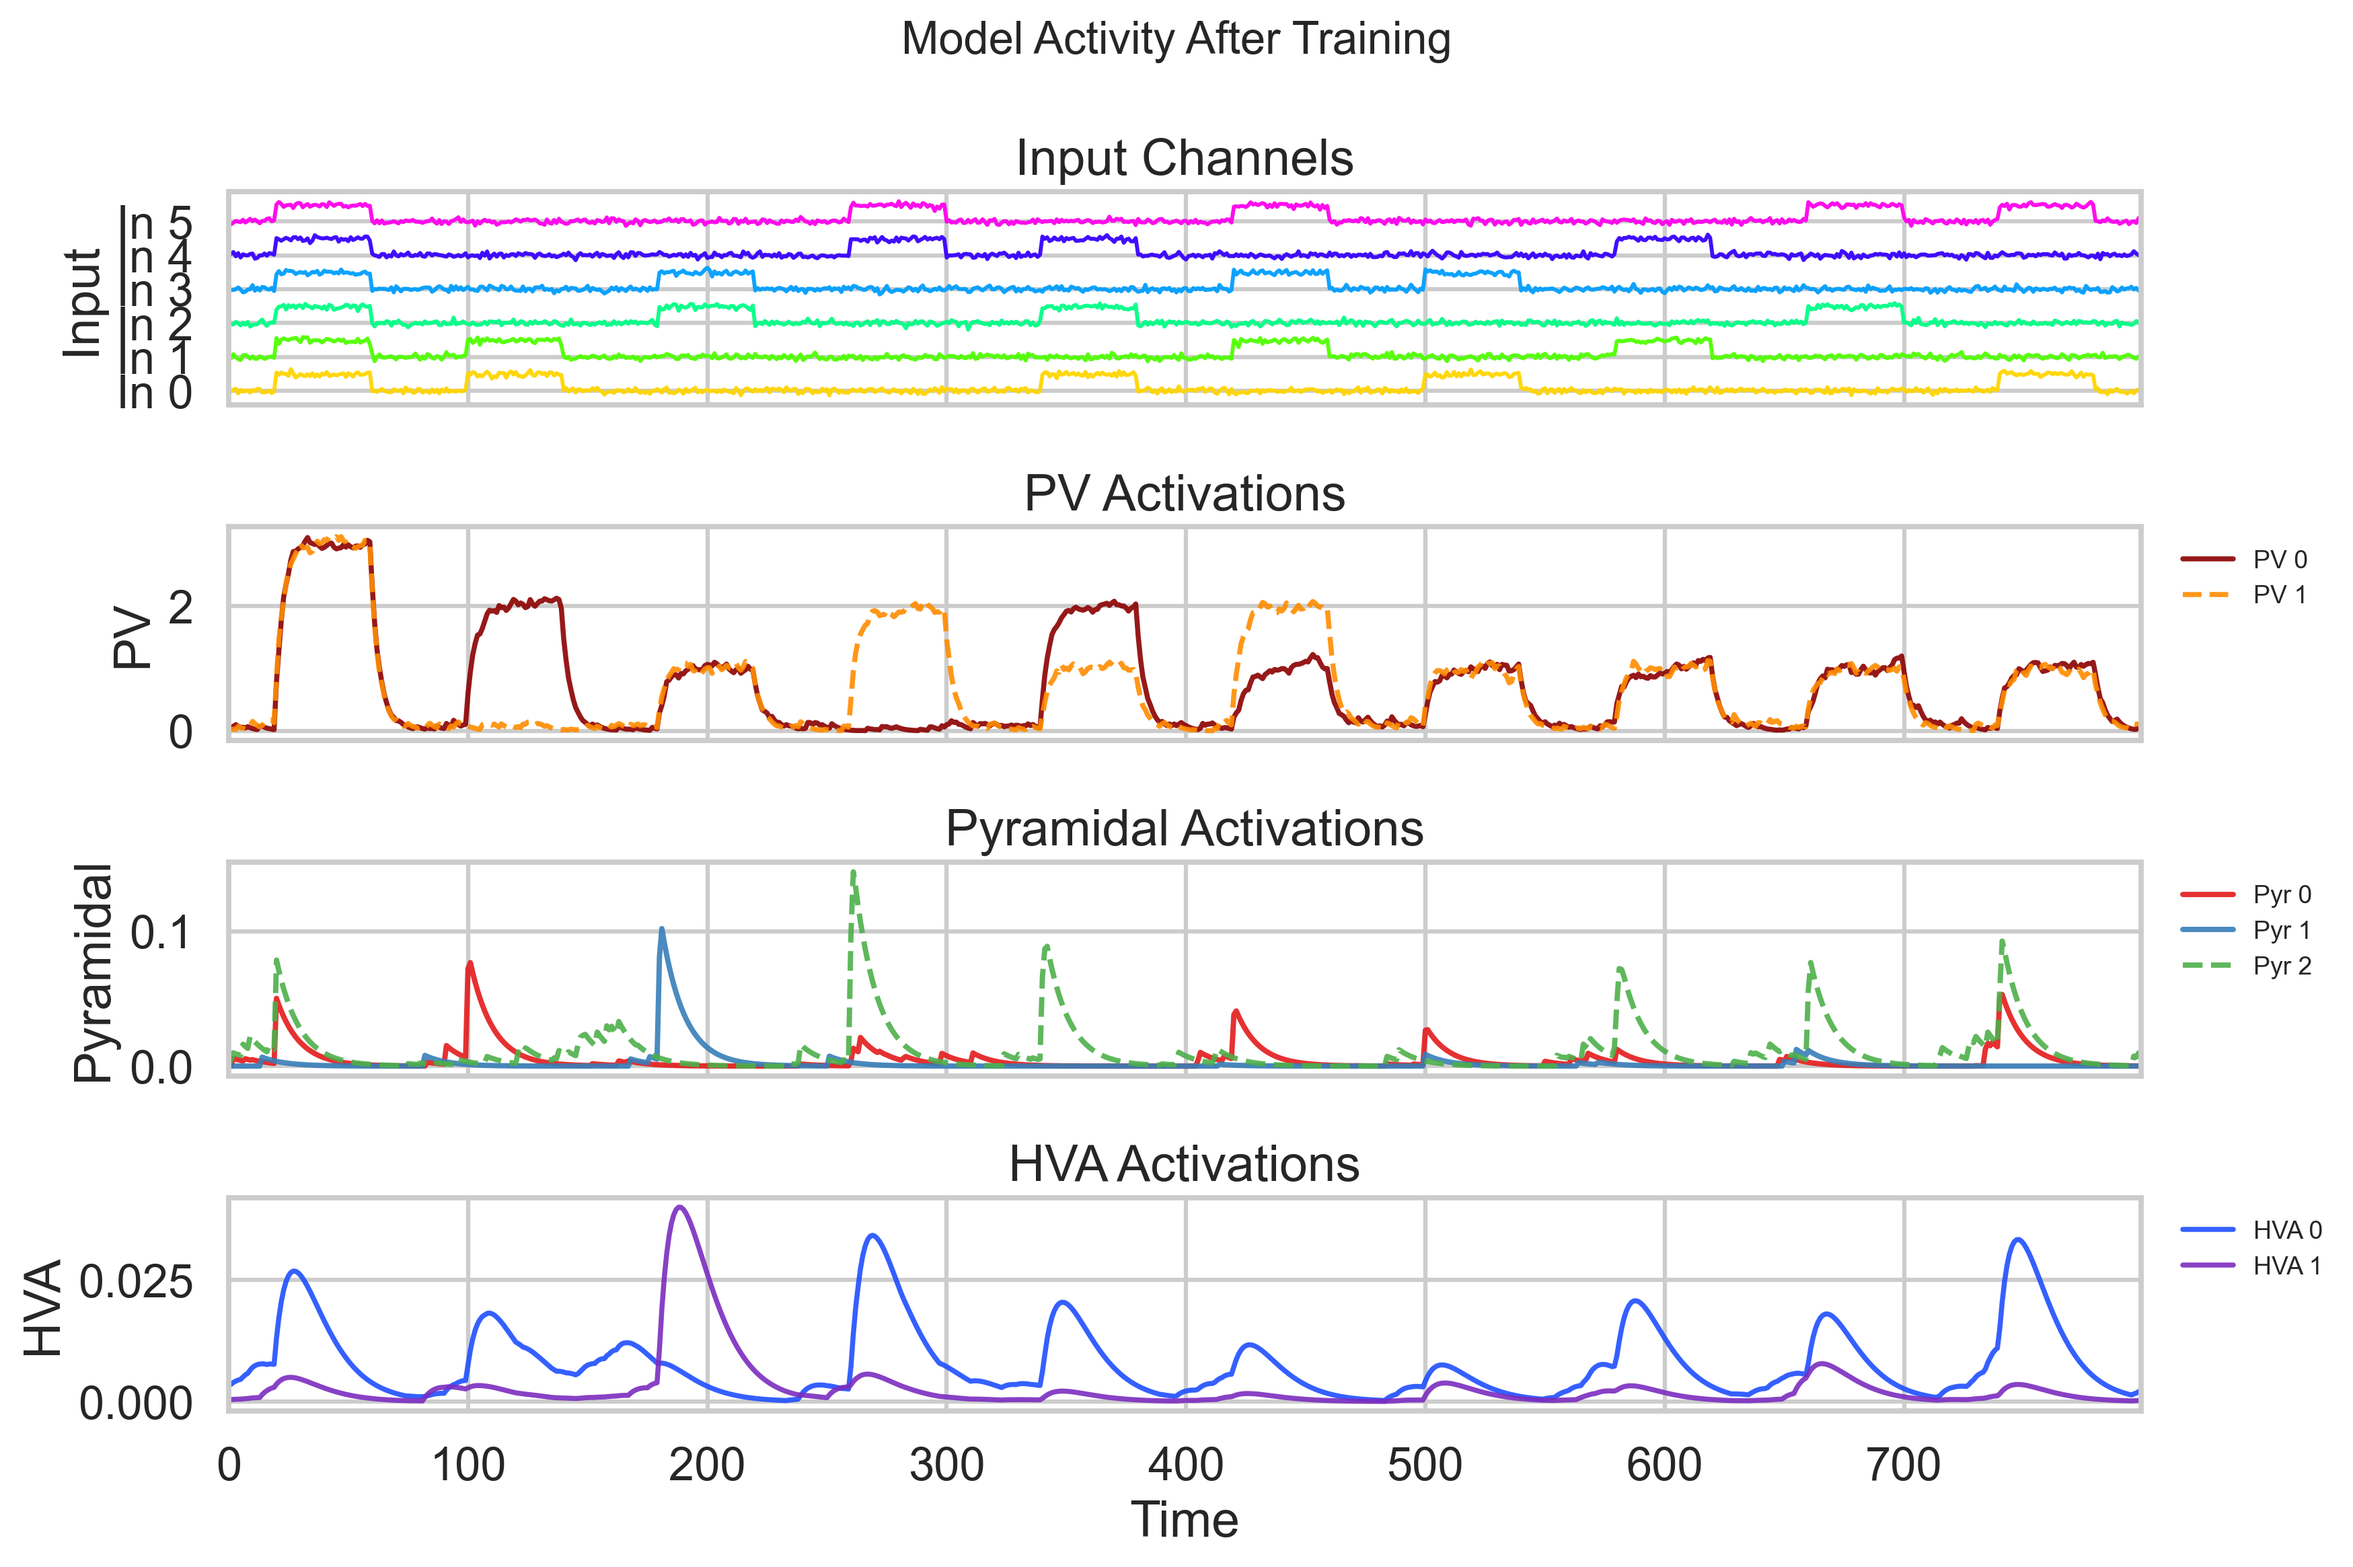
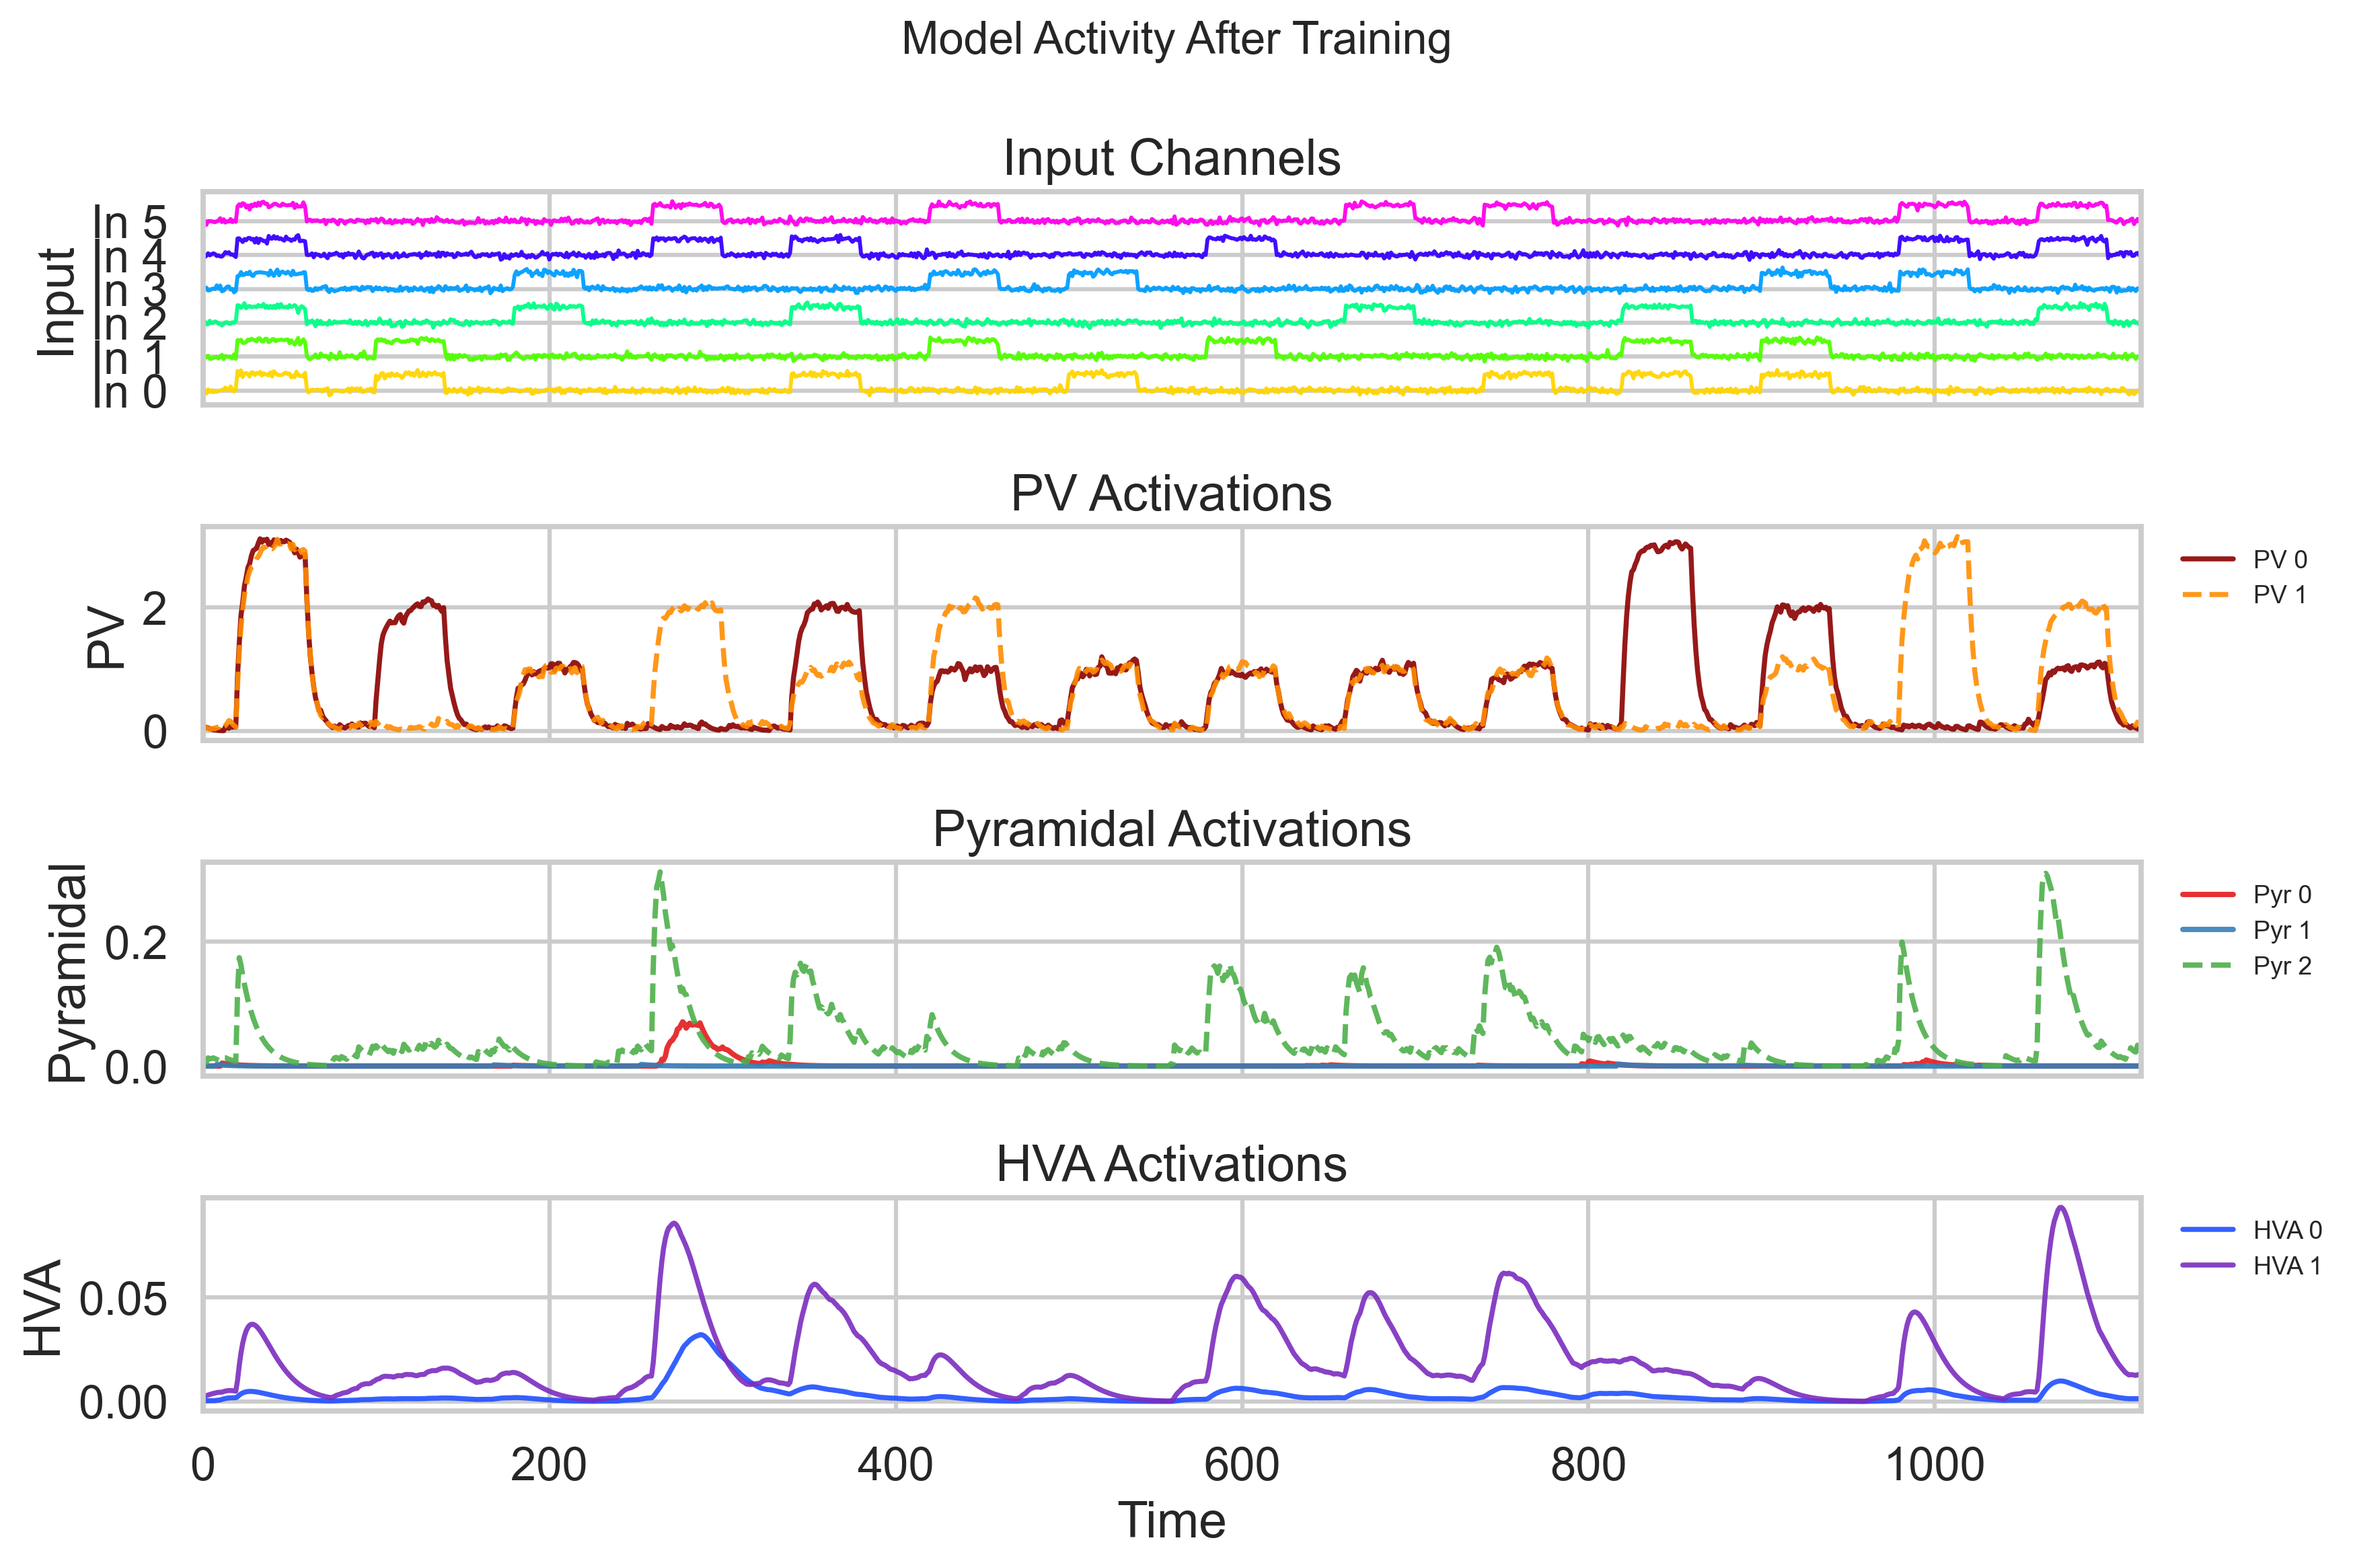
backup before changing PV to horizontal

diff --git a/cc/minimal/minimal.py b/cc/minimal/minimal.py
@@ -69,9 +69,9 @@ class Minimal(torch.nn.Module):
         self.ema_hva = EMA(shape=self.n_hva, alpha=cell_type_alphas['Pyramidal'])
 
         # learning rates for local learning rules
-        self.lr_Iy = torch.nn.Parameter(torch.tensor(0.01))  # learning rate for inhibitory PV-Pyramidal weights
-        self.lr_FFy = torch.nn.Parameter(torch.tensor(0.01))  # learning rate for feedforward Input-Pyramidal weights
-        self.lr_FBy = torch.nn.Parameter(torch.tensor(0.01))  # learning rate for feedback HVA-Pyramidal weights
+        self.lr_Iy = torch.nn.Parameter(torch.tensor(0.005))  # learning rate for inhibitory PV-Pyramidal weights
+        self.lr_FFy = torch.nn.Parameter(torch.tensor(0.1))  # learning rate for feedforward Input-Pyramidal weights
+        self.lr_FBy = torch.nn.Parameter(torch.tensor(0.05))  # learning rate for feedback HVA-Pyramidal weights
 
     def forward(self, I:torch.Tensor, train:bool = False) -> torch.Tensor:
         # To store pyramidal, PV, and HVA activations over time
@@ -118,7 +118,9 @@ class Minimal(torch.nn.Module):
         # Anti-Hebbian delta W_FFy (masked)
         self.W_FFy -= self.lr_FFy * torch.outer(pyramidal, stim) * self.mask_FFy
         # Hebbian delta W_FBy (masked)
-        self.W_FBy += self.lr_FBy * torch.outer(pyramidal, hva) * self.mask_FBy
+        context = torch.outer(torch.ones_like(pyramidal), hva) # general context
+        context += torch.outer(pyramidal, hva) # synapse-specific
+        self.W_FBy += self.lr_FBy * context * self.mask_FBy
 
         
     def _create_mask_RF(self, n_out: int, n_in: int, RF_indices: torch.Tensor|list) -> torch.Tensor:

diff --git a/cc/minimal/experiment.py b/cc/minimal/experiment.py
@@ -24,7 +24,7 @@ def experiment(train_trials:list[int], trial_length:int = 80, noise_level:float 
     torch.manual_seed(2026)  # for reproducibility
     np.random.seed(2026)
     # HVA 0: border regions (Pyr 0 and Pyr 2), HVA 1: center region (Pyr 1)
-    HVA_weights = get_hva_tuning([0.475, 0.05, 0.475], [0.05, 0.9, 0.05])
+    HVA_weights = get_hva_tuning([0.475, 0.475, 0.05], [0.05, 0.475, 0.475])
     model = Minimal(HVA_tuning=HVA_weights)
     
     trial_patterns = get_patterns() # Hardcoded trial patterns for testing
@@ -38,7 +38,7 @@ def experiment(train_trials:list[int], trial_length:int = 80, noise_level:float 
                                                noise_level=noise_level)
 
     # Test all trials before training
-    I_all_trials = get_minimal_data(*trial_patterns, n_trials=10, trial_length=trial_length, 
+    I_all_trials = get_minimal_data(*trial_patterns, n_trials=14, trial_length=trial_length, 
                                     to_tensor=True, noise_level=noise_level)
     activity_initial_all_trials = model(I_all_trials, train=False)
     plot_out(activity_initial_all_trials, I_all_trials, title='Model Activity Before Training', save=True)
@@ -53,4 +53,5 @@ def experiment(train_trials:list[int], trial_length:int = 80, noise_level:float 
 
 if __name__ == "__main__":
     # test_minimal()
-    experiment(train_trials=[0, 1, 2]) # train on patterns that activate all inputs and individual pyramidal neurons
+    # train on left-ish patterns (expect stimulus more on the left)
+    experiment(train_trials=[1, 2, 6, 10, 11])

diff --git a/cc/minimal/data.py b/cc/minimal/data.py
@@ -51,5 +51,7 @@ def get_patterns()-> tuple[list[int]]:
             [1, 1, 0, 0, 0, 0], [0,0,1,1,0,0], [0,0,0,0,1,1],
             # activate alternating inputs to test PV inhibition (4-5)
             [1,0,1,0,1,0], [0,1,0,1,0,1],
-            # test HVA feeedback by activating different combinations of PyCs (6-10)
-            [1,0,0,1,0,0], [0,1,0,0,1,0], [0,0,1,0,0,1], [1,0,0,0,0,1])
+            # test HVA feeedback by activating different combinations of PyCs (6-9)
+            [1,0,0,1,0,0], [0,1,0,0,1,0], [0,0,1,0,0,1], [1,0,0,0,0,1],
+            # one-side biased patterns to test training effects (10-13)
+            [1,1,1,0,0,0], [1,1,0,1,0,0], [0,0,0,1,1,1], [0,0,1,0,1,1])
